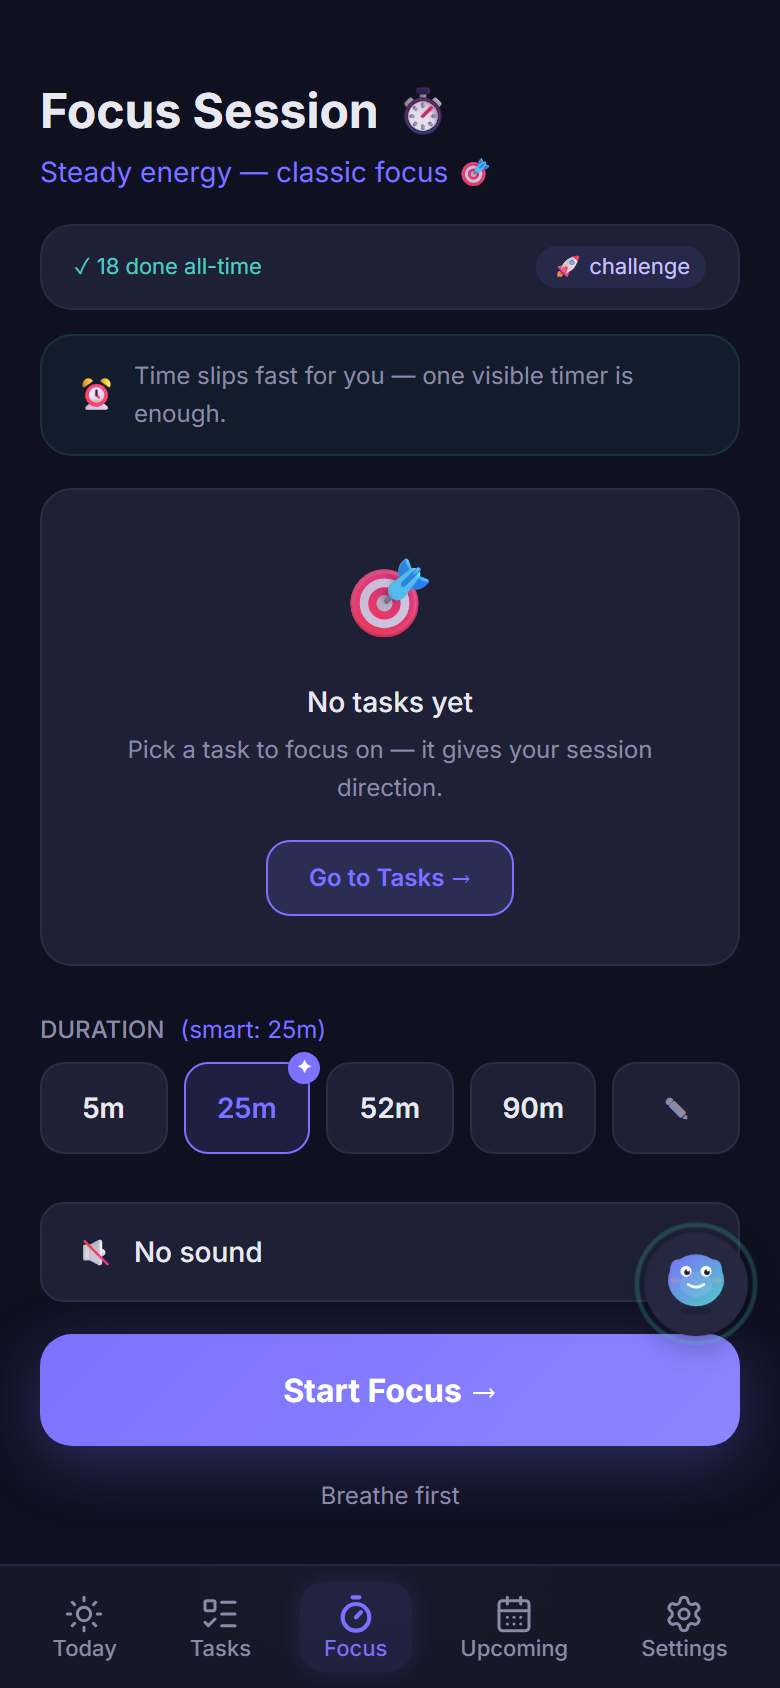
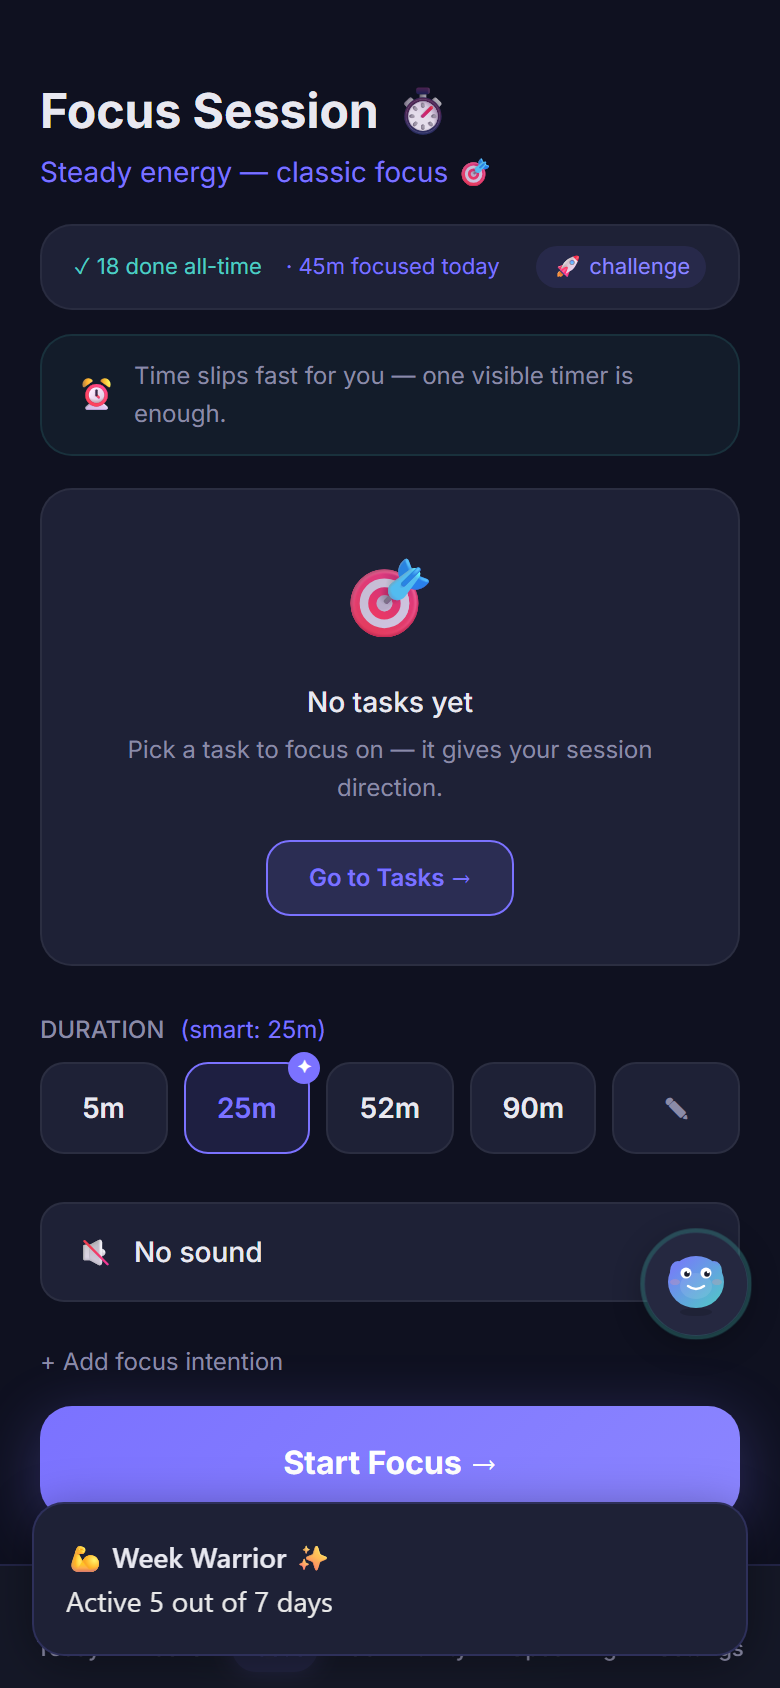
chore(launch): 8-screenshot recapture on post-fix build
Track B of recapture packet. All 8 Play Store screenshots re-rendered
on release/mindshift-v1.0 which now contains the NaN guard (PR #13),
em-dash policy (PR #14), data-face foundation (PR #15), and crystal
cross-face toast (PR #16).

Capture script change:
- scripts/capture-screenshots.ts now seeds a realistic focus_sessions
  response on the **/rest/v1/focus_sessions** route mock with 7 rows
  spanning Today / Yesterday / 3d / 4d / 6d ago. This populates
  screenshot #7 (Session Log) so the Play Store carousel shows peak
  experience instead of a first-run empty state. All other REST
  endpoints still return [] per prior behaviour.

Screenshots now on post-fix build:
 - 01-today      (NOW pool, voice-tip, Mochi)
 - 02-tasks      (NOW/NEXT/SOMEDAY layout)
 - 03-focus      (ArcTimer pre-session)
 - 04-progress   (burnoutScore=22, no NaN, real daily bars)
 - 05-onboarding (persona picker 2/5)
 - 06-settings   (locale / theme / interface style grid)
 - 07-history    (populated Session Log, 136KB from 64KB = populated signal)
 - 08-home       (BentoGrid, Mochi, streak)

diff --git a/scripts/capture-screenshots.ts b/scripts/capture-screenshots.ts
@@ -122,9 +122,34 @@ async function main() {
     await page.route('**/auth/v1/**', (route) =>
       route.fulfill({ status: 200, contentType: 'application/json', body: sessionJSON })
     )
-    await page.route('**/rest/v1/**', (route) =>
-      route.fulfill({ status: 200, contentType: 'application/json', body: JSON.stringify([]) })
-    )
+    // 2026-04-19 (Design-Atlas recapture packet): seed focus_sessions with
+    // realistic rows so screenshot #7 (Session Log) shows a populated history
+    // instead of a first-run placeholder. Play Store carousel = peak-experience
+    // signal to installers. Empty state reads as "nothing is happening here"
+    // and is the wrong install-decision frame.
+    const dayMs = 86_400_000
+    const iso = (offsetDays: number, hour: number) =>
+      new Date(Date.now() - offsetDays * dayMs + hour * 3_600_000).toISOString()
+    const DEMO_FOCUS_SESSIONS = [
+      { id: 's-01', user_id: 'demo-user-001', started_at: iso(0, -2), ended_at: iso(0, -1), duration_ms: 25 * 60_000, phase_reached: 'flow',     audio_preset: 'brown',   task_id: 't1', energy_before: 3, energy_after: 4 },
+      { id: 's-02', user_id: 'demo-user-001', started_at: iso(0, -5), ended_at: iso(0, -4), duration_ms: 20 * 60_000, phase_reached: 'release',  audio_preset: 'lofi',    task_id: 't2', energy_before: 2, energy_after: 3 },
+      { id: 's-03', user_id: 'demo-user-001', started_at: iso(1, -3), ended_at: iso(1, -2), duration_ms: 45 * 60_000, phase_reached: 'flow',     audio_preset: 'brown',   task_id: 't3', energy_before: 4, energy_after: 4 },
+      { id: 's-04', user_id: 'demo-user-001', started_at: iso(1, -7), ended_at: iso(1, -6), duration_ms: 15 * 60_000, phase_reached: 'struggle', audio_preset: null,       task_id: null, energy_before: 2, energy_after: 2 },
+      { id: 's-05', user_id: 'demo-user-001', started_at: iso(3, -4), ended_at: iso(3, -3), duration_ms: 30 * 60_000, phase_reached: 'flow',     audio_preset: 'nature',  task_id: null, energy_before: 3, energy_after: 5 },
+      { id: 's-06', user_id: 'demo-user-001', started_at: iso(4, -5), ended_at: iso(4, -4), duration_ms: 25 * 60_000, phase_reached: 'recovery', audio_preset: 'brown',   task_id: null, energy_before: 2, energy_after: 3 },
+      { id: 's-07', user_id: 'demo-user-001', started_at: iso(6, -6), ended_at: iso(6, -5), duration_ms: 42 * 60_000, phase_reached: 'flow',     audio_preset: 'pink',    task_id: null, energy_before: 3, energy_after: 4 },
+    ]
+    await page.route('**/rest/v1/**', (route) => {
+      const url = route.request().url()
+      if (url.includes('focus_sessions')) {
+        return route.fulfill({
+          status: 200,
+          contentType: 'application/json',
+          body: JSON.stringify(DEMO_FOCUS_SESSIONS),
+        })
+      }
+      return route.fulfill({ status: 200, contentType: 'application/json', body: JSON.stringify([]) })
+    })
     await page.route('**/functions/v1/**', (route) =>
       route.fulfill({ status: 200, contentType: 'application/json', body: JSON.stringify({
         steps: [], message: 'Great work today.', insights: [],
